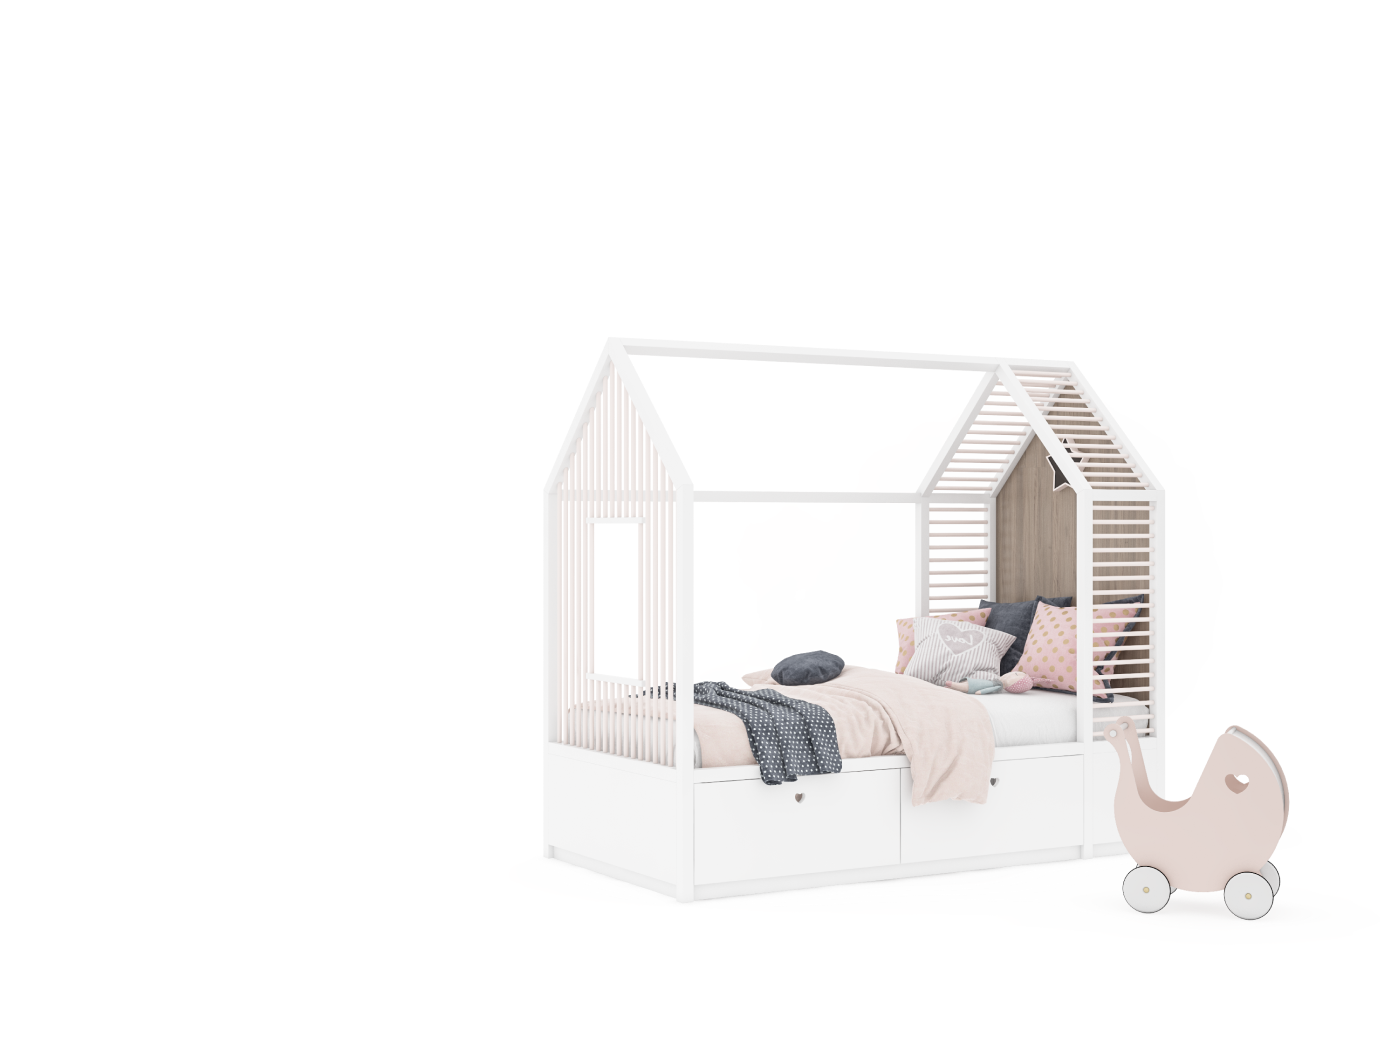
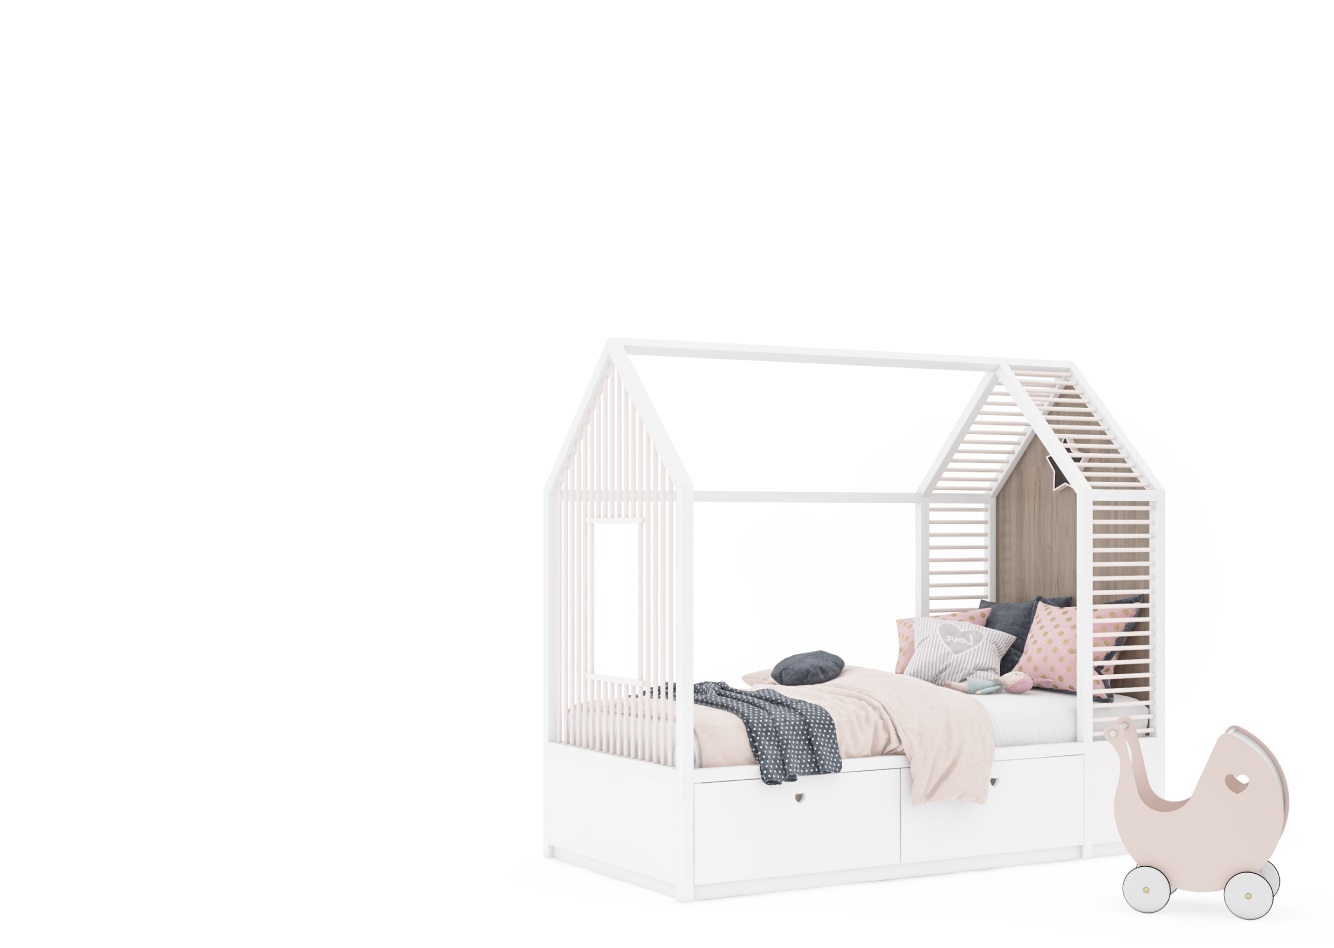
Alex firstPage 1

Changed region(s): [[0.3688, 0.3365, 0.9835, 0.9789]]

diff --git a/src/pages/Main/FirstPage/FirstPage.css b/src/pages/Main/FirstPage/FirstPage.css
@@ -131,6 +131,7 @@
     gap: 50px;
     flex-direction: column;
     justify-content: center;
+    padding-left: 100px;
 }
 
 .firstPage-box__title {
@@ -192,16 +193,17 @@
 
 .firstPage__pictureFirst {
     position: absolute;
-    width: 1300px;
-    bottom: -100px;
-    right: 0;
+    width: 1100px;
+    bottom: 185px;
+    right: 100px;
     z-index: -1;
 }
 
 .firstPage__pictureSecond {
     position: absolute;
-    width: 900px;
-    top: -130px;
+    width: 800px;
+    /* top: 50px; */
+    bottom: 100px;
     right: 0;
     z-index: -2;
 }
@@ -223,7 +225,7 @@
 
 .firstPage-background__picture {
     position: absolute;
-    top: 0;
+    top: -215px;
     left: 0;
     width: 300px;
 }
